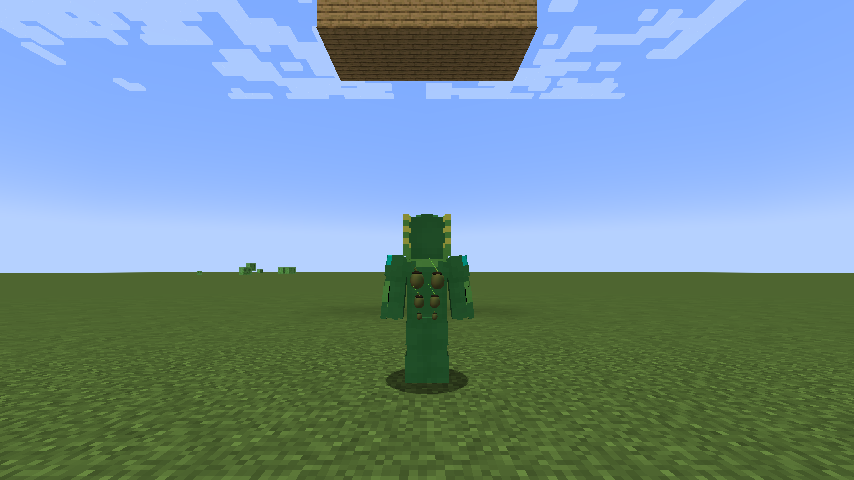
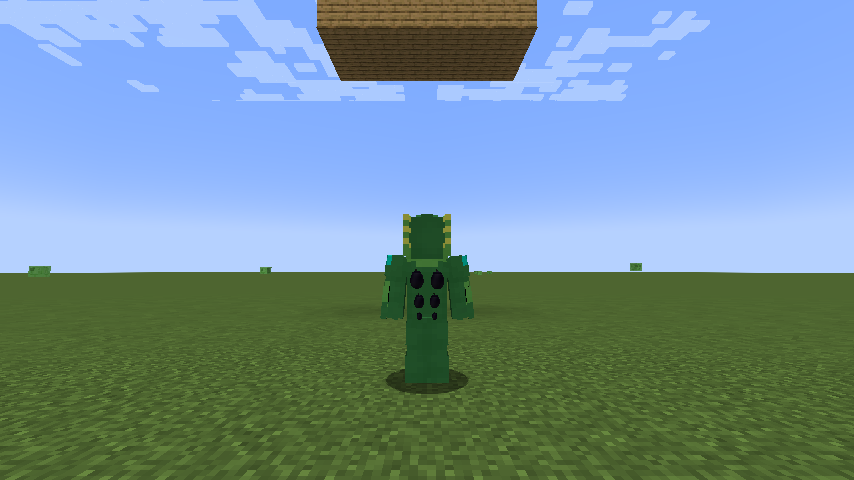
v0.17.2: Wildvine's seed bombs are black -- the pods on his back, the thrown bomb and the planted mines in the skin's own pod colour (0x07030F), glossy with a soft grey highlight (user: "look at this reference image, wildvines bombs are black, please make the wildvine bombs black or at least make it

diff --git a/src/client/java/com/projecthero/mod/client/omnitrix/alien/wildvine/WildvineFx.java b/src/client/java/com/projecthero/mod/client/omnitrix/alien/wildvine/WildvineFx.java
@@ -34,8 +34,8 @@ public final class WildvineFx {
 	}
 
 	private static boolean registered;
-	/** Vine greens: the stem, its darker ribs, a leaf; the seed pods' near-black and their green tint. */
-	private static final int STEM = 0xFF4E9A3C, RIB = 0xFF2E6A2E, LEAF = 0xFF6CBF3C, POD = 0xFF1C1E16, POD_HI = 0xFF3A4A2A;
+	/** Vine greens: the stem, its darker ribs, a leaf. */
+	private static final int STEM = 0xFF4E9A3C, RIB = 0xFF2E6A2E, LEAF = 0xFF6CBF3C;
 
 	public static void register() {
 		if (registered) {
@@ -271,37 +271,43 @@ public final class WildvineFx {
 		pose.popPose();
 	}
 
-	/** The seed pods' colours (v0.17.2, user: "add little seed bomb models to wildvines back"): olive-brown skin, green belly, dark cap. */
-	private static final int POD_SKIN = 0xFF7A7036, POD_BELLY = 0xFF46592A, POD_CAP = 0xFF2B2216, POD_SHINE = 0xFFE4EEB8, POD_STEM = 0xFF5A6A2A;
+	/**
+	 * The seed pods' colours. v0.17.2 (user: "wildvines bombs are black, please make the wildvine bombs black or at least make it match
+	 * the colour of the bombs on the skin model please"): the skin's own pod colour, sampled from it (0x07030F, a violet-tinged
+	 * near-black), glossy -- a charcoal sheen where the light catches it, a soft grey highlight on the shoulder.
+	 */
+	private static final int POD_BLACK = 0xFF07030F, POD_SHEEN = 0xFF24202C, POD_CAP = 0xFF0E0A16, POD_GLOSS = 0xFF3C3A46, POD_SHINE = 0xFFB0AEBA,
+			POD_STEM = 0xFF151A12;
 
 	/**
-	 * A seed pod of {@code size}, its stem toward +y: a round green-brown body (a little longer than wide), a darker cap where it
-	 * hangs, a short stem with a leaf and a glint of shine on its shoulder; {@code glow} warms the body toward leaf green (an armed
-	 * mine's pulse).
+	 * A seed pod of {@code size}, its stem toward +y: a glossy black oval (the skin's pod colour) with a soft grey highlight on its
+	 * shoulder, a slightly darker cap where it hangs and a short dark stem; {@code glow} warms it toward leaf green (an armed mine's
+	 * pulse).
 	 */
 	static void pod(PoseStack pose, VertexConsumer vc, float size, float t, int light, float glow) {
 		pose.pushPose();
-		pose.scale(size * 0.85f, size * 1.05f, size * 0.85f);
-		PyroDraw.sphere(pose, vc, 0.5f, PyroDraw.lerpRgb(POD_SKIN, LEAF, glow) | 0xFF000000, POD_BELLY, 0.06f, t * 0.15f, light);
+		pose.scale(size * 0.82f, size * 1.08f, size * 0.82f);
+		PyroDraw.sphere(pose, vc, 0.5f, PyroDraw.lerpRgb(POD_SHEEN, LEAF, glow) | 0xFF000000, POD_BLACK, 0.04f, t * 0.15f, light);
 		pose.popPose();
-		// the cap: a flattened dark dome over the top
+		// the cap: a flattened, darker dome over the top
 		pose.pushPose();
-		pose.translate(0, size * 0.4f, 0);
-		pose.scale(size * 0.62f, size * 0.26f, size * 0.62f);
-		PyroDraw.sphere(pose, vc, 0.5f, POD_CAP, 0xFF1A140C, 0.04f, 0f, light);
+		pose.translate(0, size * 0.42f, 0);
+		pose.scale(size * 0.56f, size * 0.24f, size * 0.56f);
+		PyroDraw.sphere(pose, vc, 0.5f, POD_CAP, POD_BLACK, 0.02f, 0f, light);
 		pose.popPose();
-		// the shine: a small bright fleck on the upper front shoulder (full bright, so it reads as a highlight)
+		// the gloss: a soft grey glow on the upper front shoulder, a brighter fleck in its middle (full bright: a highlight)
 		pose.pushPose();
-		pose.translate(-size * 0.17f, size * 0.2f, size * 0.3f);
-		pose.scale(size * 0.13f, size * 0.17f, size * 0.07f);
+		pose.translate(-size * 0.15f, size * 0.18f, size * 0.33f);
+		pose.scale(size * 0.24f, size * 0.32f, size * 0.07f);
+		PyroDraw.sphere(pose, vc, 0.5f, POD_GLOSS, POD_GLOSS, 0f, 0f, PyroDraw.FULL);
+		pose.popPose();
+		pose.pushPose();
+		pose.translate(-size * 0.17f, size * 0.22f, size * 0.355f);
+		pose.scale(size * 0.1f, size * 0.15f, size * 0.05f);
 		PyroDraw.sphere(pose, vc, 0.5f, POD_SHINE, POD_SHINE, 0f, 0f, PyroDraw.FULL);
 		pose.popPose();
-		List<Vec3> stem = List.of(new Vec3(0, size * 0.48, 0), new Vec3(size * 0.04, size * 0.62, 0), new Vec3(size * 0.12, size * 0.72, size * 0.03));
-		tubeColour(pose, vc, stem, s -> size * 0.07, POD_STEM, light);
-		if (size > 0.1f) {
-			leaves(pose, vc, List.of(new Vec3(0, size * 0.5, 0), new Vec3(0, size * 0.55, 0), new Vec3(size * 0.04, size * 0.62, 0),
-					new Vec3(size * 0.12, size * 0.72, size * 0.03)), 1, light);
-		}
+		List<Vec3> stem = List.of(new Vec3(0, size * 0.5, 0), new Vec3(size * 0.03, size * 0.6, 0), new Vec3(size * 0.08, size * 0.66, size * 0.02));
+		tubeColour(pose, vc, stem, s -> size * 0.06, POD_STEM, light);
 	}
 
 	/** {@link #tube} in one colour (no ribs). */

diff --git a/src/main/java/com/projecthero/mod/omnitrix/alien/wildvine/WildvineKit.java b/src/main/java/com/projecthero/mod/omnitrix/alien/wildvine/WildvineKit.java
@@ -406,7 +406,7 @@ public final class WildvineKit extends AlienKit {
 			return false;
 		}
 		anim(p, ANIM_THROW);
-		AlienProjectileEntity.of(p, "wildvine_seed").colour(0x1A1A14).size(0.5f).damage(SEED_DIRECT).blast((float) SEED_RADIUS, SEED_DAMAGE)
+		AlienProjectileEntity.of(p, "wildvine_seed").colour(0x07030F).size(0.5f).damage(SEED_DIRECT).blast((float) SEED_RADIUS, SEED_DAMAGE)
 				.gravity(0.05).speed(1.35).life(80).spawn();
 		OmnitrixSounds.play(level(p), p.position(), SND_POD, 1.0f, 1.0f);
 		return true;
@@ -437,7 +437,7 @@ public final class WildvineKit extends AlienKit {
 			}
 			AlienProjectileEntity m = AlienProjectileEntity.of(p, "wildvine_mine");
 			m.moveTo(at.x, at.y, at.z, p.getYRot() + i * 47f, 0f);
-			m.colour(0x1A1A14).size(0.6f).held(true).speed(0).life(MINE_LIFE).damage(0f).spawn();
+			m.colour(0x07030F).size(0.6f).held(true).speed(0).life(MINE_LIFE).damage(0f).spawn();
 			mines.add(m);
 			BlockState under = l.getBlockState(BlockPos.containing(at).below());
 			if (!under.isAir()) {

diff --git a/docs/OMNITRIX_REVAMP_WILDVINE.md b/docs/OMNITRIX_REVAMP_WILDVINE.md
@@ -126,12 +126,12 @@ User: "can you add little seed bomb models to wildvines back please"
   34 / 37 rows 27..29 and 31, and the jacket layer's copies.
 - `WildvineFx.backPods` draws 3D pods there, on the body bone (`WildvineClient.renderExtras`):
   - a big upper pair, a slimmer pair under it, and two small buds
-  - each pod is a round green-brown body with a darker cap, a short stem and leaf, and a glint of shine
+  - each pod is a glossy black oval in the skin's own pod colour (0x07030F; user: "wildvines bombs are black ... make it match the colour of the bombs on the skin model"), a soft grey highlight on its shoulder, a darker cap and a short dark stem
   - each hangs from its cap and sways a little, more as he walks
 - They are his seed bombs:
   - A **Seed Bomb** plucks one of the four big pods. Which one is set by the throw's cooldown end, so every viewer sees the same
     pod missing.
   - **Seed Mines** plant three of them.
   - A missing pod stays gone for the first half of its move's cooldown, then swells back.
-  - The thrown and planted pods now share the same look.
+  - The thrown and planted pods share the same black look.
 - Screenshots: `docs/screenshots/v0172/wildvine/wildvine_pods_*.png`.
